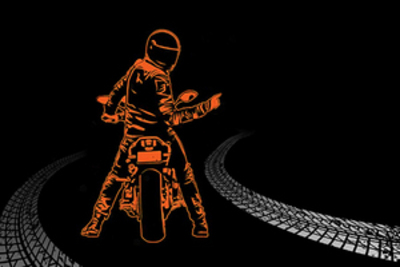
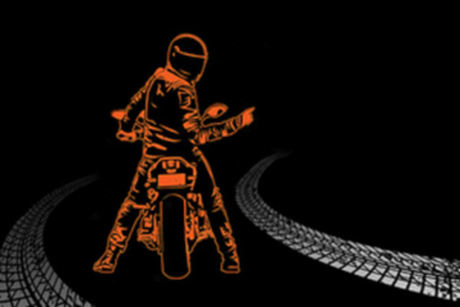
prozor izbornik

diff --git a/MotovodicAPP/src/main/java/motovodic/view/ProzorIzbornik.java b/MotovodicAPP/src/main/java/motovodic/view/ProzorIzbornik.java
@@ -22,14 +22,12 @@ public class ProzorIzbornik extends javax.swing.JFrame {
 
         setTitle(Aplikacija.NAZIV_APP + ": "
                 + Aplikacija.OPERATER.getImePrezime());
-        
-       // ImageIcon pozadinaIcon = new ImageIcon(getClass().getResource("/resources/izbornikslika.jpg"));
-      //  java.awt.Image pozadinaImage = pozadinaIcon.getImage();
+
+       // ImageIcon pozadinaIcon = new ImageIcon(ProzorIzbornik.class.getResource("/izbornikslika.jpg"));
+     //   java.awt.Image pozadinaImage = pozadinaIcon.getImage();
        // setContentPane(new javax.swing.JLabel(new ImageIcon(pozadinaImage)));
-        
-       pokreniSat();
-       
-       
+
+        pokreniSat();
 
     }
 
@@ -68,9 +66,11 @@ public class ProzorIzbornik extends javax.swing.JFrame {
     // <editor-fold defaultstate="collapsed" desc="Generated Code">//GEN-BEGIN:initComponents
     private void initComponents() {
 
+        jLayeredPane1 = new javax.swing.JLayeredPane();
+        btnGit = new javax.swing.JButton();
         jToolBar1 = new javax.swing.JToolBar();
         lblVrijeme = new javax.swing.JLabel();
-        btnGit = new javax.swing.JButton();
+        jLabel1 = new javax.swing.JLabel();
         jMenuBar1 = new javax.swing.JMenuBar();
         jMenu1 = new javax.swing.JMenu();
         jMenuItem1 = new javax.swing.JMenuItem();
@@ -83,9 +83,11 @@ public class ProzorIzbornik extends javax.swing.JFrame {
         jMenuItem6 = new javax.swing.JMenuItem();
 
         setDefaultCloseOperation(javax.swing.WindowConstants.EXIT_ON_CLOSE);
+        setPreferredSize(new java.awt.Dimension(480, 366));
+        setSize(new java.awt.Dimension(480, 366));
 
-        jToolBar1.setRollover(true);
-        jToolBar1.add(lblVrijeme);
+        jLayeredPane1.setPreferredSize(new java.awt.Dimension(410, 285));
+        jLayeredPane1.setVerifyInputWhenFocusTarget(false);
 
         btnGit.setText("Git");
         btnGit.addActionListener(new java.awt.event.ActionListener() {
@@ -93,6 +95,39 @@ public class ProzorIzbornik extends javax.swing.JFrame {
                 btnGitActionPerformed(evt);
             }
         });
+
+        jToolBar1.setRollover(true);
+        jToolBar1.add(lblVrijeme);
+
+        jLabel1.setHorizontalAlignment(javax.swing.SwingConstants.CENTER);
+        jLabel1.setIcon(new javax.swing.ImageIcon(getClass().getResource("/izbornikslika.jpg"))); // NOI18N
+
+        jLayeredPane1.setLayer(btnGit, javax.swing.JLayeredPane.DEFAULT_LAYER);
+        jLayeredPane1.setLayer(jToolBar1, javax.swing.JLayeredPane.DEFAULT_LAYER);
+        jLayeredPane1.setLayer(jLabel1, javax.swing.JLayeredPane.DEFAULT_LAYER);
+
+        javax.swing.GroupLayout jLayeredPane1Layout = new javax.swing.GroupLayout(jLayeredPane1);
+        jLayeredPane1.setLayout(jLayeredPane1Layout);
+        jLayeredPane1Layout.setHorizontalGroup(
+            jLayeredPane1Layout.createParallelGroup(javax.swing.GroupLayout.Alignment.LEADING)
+            .addComponent(jToolBar1, javax.swing.GroupLayout.DEFAULT_SIZE, javax.swing.GroupLayout.DEFAULT_SIZE, Short.MAX_VALUE)
+            .addGroup(javax.swing.GroupLayout.Alignment.TRAILING, jLayeredPane1Layout.createSequentialGroup()
+                .addContainerGap(292, Short.MAX_VALUE)
+                .addComponent(btnGit)
+                .addGap(126, 126, 126))
+            .addGroup(jLayeredPane1Layout.createParallelGroup(javax.swing.GroupLayout.Alignment.LEADING)
+                .addComponent(jLabel1, javax.swing.GroupLayout.DEFAULT_SIZE, 514, Short.MAX_VALUE))
+        );
+        jLayeredPane1Layout.setVerticalGroup(
+            jLayeredPane1Layout.createParallelGroup(javax.swing.GroupLayout.Alignment.LEADING)
+            .addGroup(jLayeredPane1Layout.createSequentialGroup()
+                .addGap(72, 72, 72)
+                .addComponent(btnGit)
+                .addPreferredGap(javax.swing.LayoutStyle.ComponentPlacement.RELATED, 205, Short.MAX_VALUE)
+                .addComponent(jToolBar1, javax.swing.GroupLayout.PREFERRED_SIZE, 25, javax.swing.GroupLayout.PREFERRED_SIZE))
+            .addGroup(jLayeredPane1Layout.createParallelGroup(javax.swing.GroupLayout.Alignment.LEADING)
+                .addComponent(jLabel1, javax.swing.GroupLayout.DEFAULT_SIZE, 312, Short.MAX_VALUE))
+        );
 
         jMenu1.setText("Aplikacija");
 
@@ -165,23 +200,11 @@ public class ProzorIzbornik extends javax.swing.JFrame {
         getContentPane().setLayout(layout);
         layout.setHorizontalGroup(
             layout.createParallelGroup(javax.swing.GroupLayout.Alignment.LEADING)
-            .addGroup(layout.createSequentialGroup()
-                .addContainerGap()
-                .addComponent(jToolBar1, javax.swing.GroupLayout.DEFAULT_SIZE, 388, Short.MAX_VALUE)
-                .addContainerGap())
-            .addGroup(javax.swing.GroupLayout.Alignment.TRAILING, layout.createSequentialGroup()
-                .addContainerGap(javax.swing.GroupLayout.DEFAULT_SIZE, Short.MAX_VALUE)
-                .addComponent(btnGit)
-                .addGap(37, 37, 37))
+            .addComponent(jLayeredPane1, javax.swing.GroupLayout.DEFAULT_SIZE, 490, Short.MAX_VALUE)
         );
         layout.setVerticalGroup(
             layout.createParallelGroup(javax.swing.GroupLayout.Alignment.LEADING)
-            .addGroup(javax.swing.GroupLayout.Alignment.TRAILING, layout.createSequentialGroup()
-                .addGap(14, 14, 14)
-                .addComponent(btnGit)
-                .addPreferredGap(javax.swing.LayoutStyle.ComponentPlacement.RELATED, 209, Short.MAX_VALUE)
-                .addComponent(jToolBar1, javax.swing.GroupLayout.PREFERRED_SIZE, 25, javax.swing.GroupLayout.PREFERRED_SIZE)
-                .addContainerGap())
+            .addComponent(jLayeredPane1, javax.swing.GroupLayout.DEFAULT_SIZE, 325, Short.MAX_VALUE)
         );
 
         pack();
@@ -233,6 +256,8 @@ public class ProzorIzbornik extends javax.swing.JFrame {
 
     // Variables declaration - do not modify//GEN-BEGIN:variables
     private javax.swing.JButton btnGit;
+    private javax.swing.JLabel jLabel1;
+    private javax.swing.JLayeredPane jLayeredPane1;
     private javax.swing.JMenu jMenu1;
     private javax.swing.JMenu jMenu2;
     private javax.swing.JMenu jMenu3;

diff --git a/MotovodicAPP/src/main/java/motovodic/Start.java b/MotovodicAPP/src/main/java/motovodic/Start.java
@@ -15,7 +15,7 @@ import motovodic.view.SplashScreen;
 public class Start {
 
     public static void main(String[] args) {
-        //new PocetniInsert();
+       // new PocetniInsert();
         new SplashScreen().setVisible(true);
 
     }
